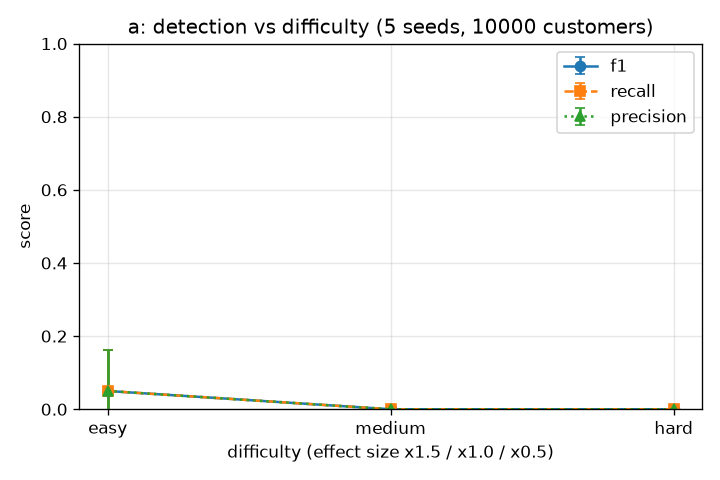
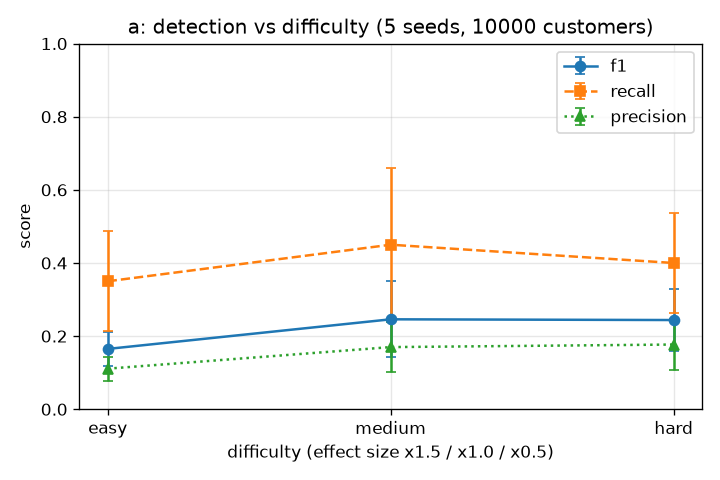
DECISIONS: round-2 results, medium F1 0.25, target 0.7 not reached
Seed 42 F1 0.20 (E1 matched), placebo p 0.05, twin 0.55/yr; 10 twins
0.82/yr. Curve easy/medium/hard F1 0.165/0.246/0.244. Per-event reasons:
E2 confounded with E1's price drop, E4 below target even widened and
dated ~20 d late, E5 z 5-6 below 6.5 on a 30-day ramp, and precision
lost to side effects of the large calibrated events.

diff --git a/DECISIONS.md b/DECISIONS.md
@@ -352,3 +352,56 @@ the top of `s2d/detective/scan.py`.
     for it (decision 44). Spike confidence keeps its own scale ((max |z| − 3.5) / 4).
     Tests that check calendar, onset and direction logic use effects above this threshold
     (store drop −50 %, churn ×5); whether a −35 % drop is reported is now a power question.
+56. **Results after round 2 (2026-11-25, commits up to decision 55). Target F1 ≥ 0.7 on
+    medium is NOT reached.** Example A, 10k customers, calibrated, scan output (no LLM).
+    - **Seed 42, medium:** precision 0.17, recall 0.25, **F1 0.20** (was 0). E1 matched
+      (timing +0 d, segment 1.0). Date-shuffle placebo p = 0.050. Twin: 1 event in 670 days
+      = 0.55 / year (the decoy). Twins seeds 1–10: 0.82 / year.
+    - **Detection curve** (`docs/detection_curve_a.png`, seeds 1–5):
+
+      | difficulty | F1 | precision | recall | E1 | E2 | E4 | E5 | false pos. / run |
+      |---|---|---|---|---|---|---|---|---|
+      | easy | 0.165 | 0.11 | 0.35 | 5/5 | 0/5 | 0/5 | 2/5 | 11.6 |
+      | medium | 0.246 | 0.17 | 0.45 | 5/5 | 0/5 | 1/5 | 3/5 | 8.6 |
+      | hard | 0.244 | 0.18 | 0.40 | 5/5 | 0/5 | 0/5 | 3/5 | 7.6 |
+
+    Why, per event:
+    - **E1 (price −6 %)** is found every time, through the price test, at its price date.
+      But reaching d ≥ 9 takes −37 % to −61 % (students, sensitivity 2.0, lose up to ~86 %).
+    - **E2 (student churn +60 %, lag 42) is never matched.** E1 lowers students' purchase
+      frequency from 03-01, so the repeat rate falls and gaps grow, which both churn KPIs
+      read as churn. The detective dates "student churn" around 03-08 to 03-11, five weeks
+      before E2's 04-12. Same-direction breaks within 35 days are one ramp (decision 34),
+      so E2's own onset is absorbed. A rule "churn at the time of a purchase drop is the
+      purchase drop" was tried and reverted: churn also lowers orders at the same time, so
+      the two rules explain each other away (synthetic churn world).
+    - **E4 (Brno subscribers' churn)** cannot be seen in its segment at all: d = 0 even at
+      5× hazard. It is widened to all of Brno and still ends below target (d 4.8–6.1 at
+      medium and easy). When found, the repeat rate dates it ~20 days late (a 30-day
+      rolling KPI plus a 7-day ramp is longer than the 35-day ramp fit), and the merge
+      prefers Brno × students, where E2's tail adds to it.
+    - **E5 (Brno stores −20 %)** needs −50 % to −58 %. Found on time but in about half the
+      runs with z 5–6, below 6.5, although calibration measured d ≈ 8–11 on its own seed.
+      Calibration's d is measured at the true onset; the detective has to find the onset
+      on a 30-day ramp, which costs z.
+    - **Precision** is the larger problem: 8–12 false positives a run, against 1.5 a run
+      on twins. They are side effects of the large calibrated events, real in the data but
+      not in the answer key: accessories × students "up" against a control of coffee that
+      fell 40–80 % (a mirror the sibling-only mirror rule does not cover), segment-level
+      purchase shifts around E1, and Brno × student churn. Easier stories score worse,
+      because their effects are bigger. A general mirror rule (any confirmed opposite shift
+      in the control, larger z wins) was tried and reverted: the mirror often has the
+      larger z (accessories z 15.9 vs the coffee price drop z 7.4), so it removed E1.
+
+    - **Calibration overshoots when events interact.** At hard, E5 ends at −84 % (d 17,
+      target 7): E4 is widened to all of Brno in the same loop, its churn lowers Brno store
+      orders, and E5's paired measurement saw less effect in the earlier iterations. Sizes
+      only ever go up, so the overshoot stays. Widening before scaling, and allowing a step
+      back down, would fix it.
+
+    What this says about the plan: with a detector that keeps ≤ 1 false event a year over
+    ~1000 series, an event must be ~9 noise units to be found reliably. Effects that big
+    leak into neighbouring KPIs and segments, and the scorer counts each leak as a false
+    positive. Fixing that needs either a scorer that accepts consequences of a true event
+    (same segment family and window, linked by caused_by), or a detector that attributes
+    them (control-group contamination, churn vs frequency), not more threshold tuning.
